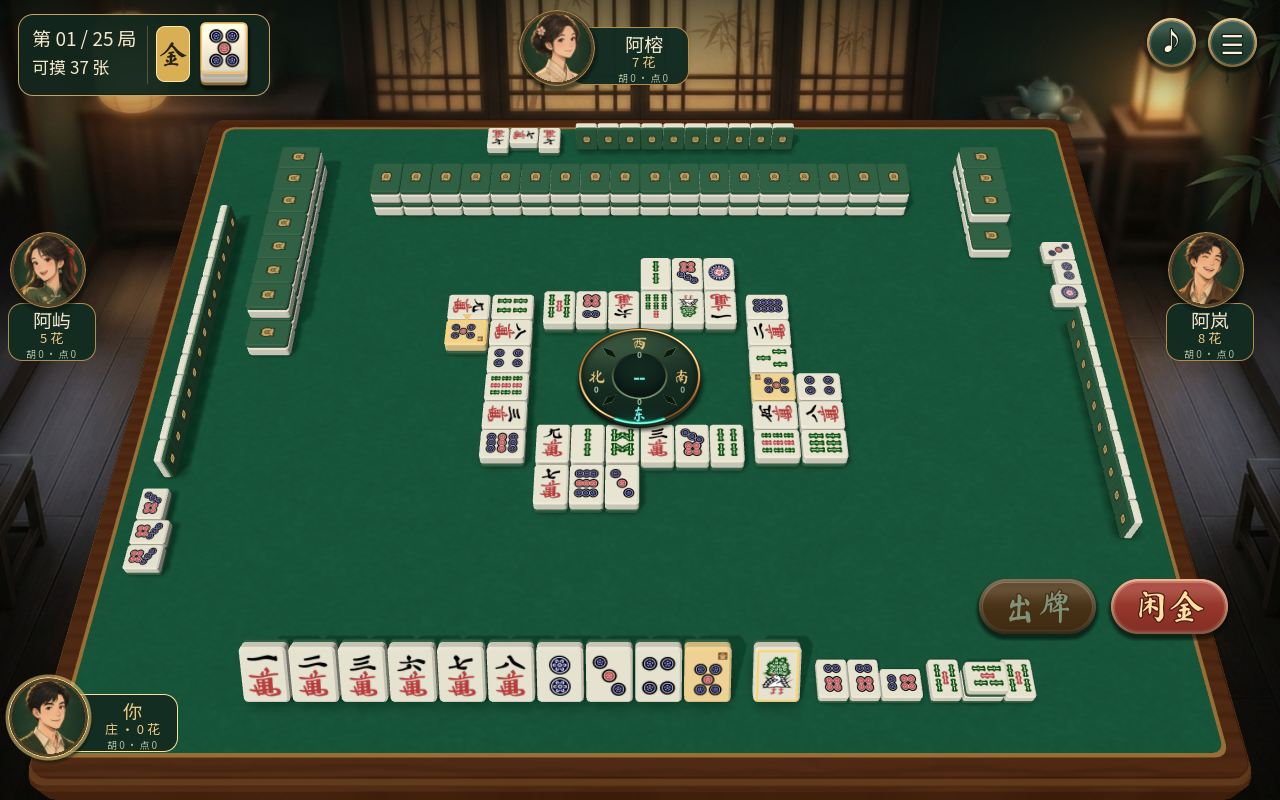
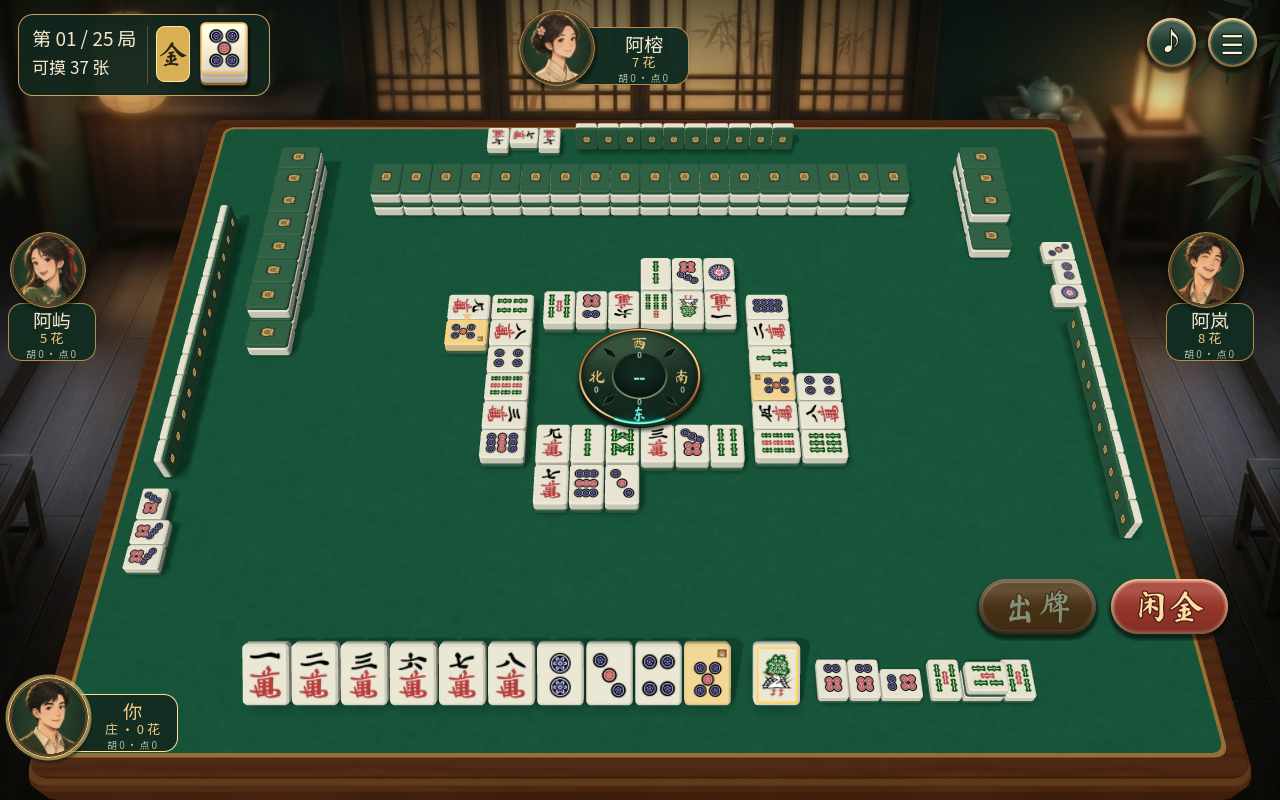
Adjust local hand tilt toward table (36 deg) based on v1.3.3e (v1.3.4a)

Changed region(s): [[0.1875, 0.7812, 0.625, 0.9062]]

diff --git a/release/联机说明-v1.3.4a.md b/release/联机说明-v1.3.4a.md
@@ -1,0 +1,37 @@
+# 福清麻将 v1.3.4a 联机说明
+
+所有玩家使用 **FuqingMahjong-v1.3.4a.exe**。从开始页点“开始游戏”，再点“联机模式”。
+
+## 局域网
+
+1. 房主输入昵称，使用默认 UDP 端口 36712 或填写自选端口，点击“开房间”。
+2. 选择朋友能访问的局域网地址，点“复制局域网地址”，将“地址:端口”发给朋友。
+3. 朋友填写昵称，在“房间地址”粘贴完整地址，点击“加入房间”。
+
+## 准备与开局
+
+每个真人入座后需要在右侧点“准备”，房主也需要准备。AI 座位默认准备。四个座位都有人或 AI、四家都准备且房间设置已保存后，房主才能点“开始游戏”。换座、修改局数或出牌时间会重置真人的准备状态。
+
+## 结算确认
+
+每局结算后，四家各点一次“下一局”。全部确认后，主机才开下一局。终局结算后四家各点一次“返回房间”，全部确认后回到等候室。AI 和断线真人自动确认。跳过胡牌演出后，可以在结算弹窗里手动确认。
+
+## UDP 内网穿透
+
+穿透服务使用 UDP，把公网入口映射到开房电脑的游戏监听端口。默认本地目标是 `127.0.0.1:36712`。把服务提供的公网域名和端口发给朋友，例如 `example.com:45939`。等候室也可填写外部地址与端口后点击“复制穿透地址”。
+
+连接超时时，检查承载端是否在线、端口是否正确，以及防火墙或映射是否允许 UDP。移交房主后，最初开房的游戏进程仍需保持运行。
+
+## 选座与计时
+
+创建者从东座入席。加入后可点空座上的“换到此座”。房主可点已占座的“调座”，再选择一个空座或已占座位完成移动或交换。开始掷骰定庄时锁定座位。
+
+首局由四家掷骰定庄，承载端同步庄家和开金结果。开局演出结束后，圆形风盘显示四个座位的方向。限时对局在桌心读秒，不限时保留方向。承载端为开局和补花演出留出时间，桌心显示的秒数以房间设置为上限。
+
+默认 25 局，房主可在 1–32 局之间调整。默认 60 秒，可选 15 秒、30 秒、60 秒和不限时。自己出牌超时会自动打出一张合法牌，争牌和抢杠超时按“过”处理。争牌时，所有玩家看到同一倒计时，风盘保持中性样式。
+
+首巡四家打同一张牌触发流局后，由承载端自动重发本局。各端保留相同的庄家、局号和累计积分。
+
+## 海底
+
+牌墙剩余 20 张（16 张残牌 + 4 张海底牌）时进入海底。每个明杠（含补杠）多留 1 张，每个暗杠多留 2 张。轮到摸牌且无可摸牌时，从该家开始四家各摸一张海底牌，摸到能胡的牌自动胡，花牌只亮出，四家都没胡则海底流局。海底由承载端按顺序推进，各端同步看到。

diff --git a/release/更新说明-v1.3.4a.md b/release/更新说明-v1.3.4a.md
@@ -1,0 +1,6 @@
+# 福清麻将 v1.3.4a
+
+- **修正本家手牌打牌视角**：以 `v1.3.3e` 稳定的 3D 牌桌布局、2K 高清渲染、左上角大金牌与融城茶馆全景背景为基准，将本家手牌倾角由 `51°` 向桌面方向压低至 `36°`（正对 `56°` 俯视视线），并同步调整底边高度紧贴绿桌布，消除手牌逆视线反翘感，与右侧副露透视浑然一体。
+- **保持零遮挡与恒定牌张尺寸**：四向满墙零遮挡约束、2K 原生渲染分辨率及摸打过程牌张尺寸稳定不变。
+
+联机玩家请统一使用 v1.3.4a。具体步骤见[联机说明](联机说明-v1.3.4a.md)。
